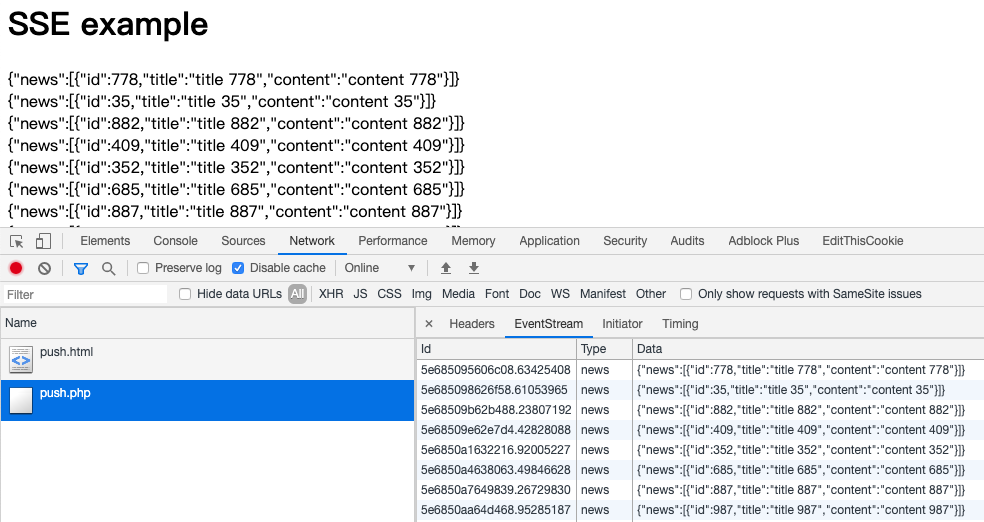
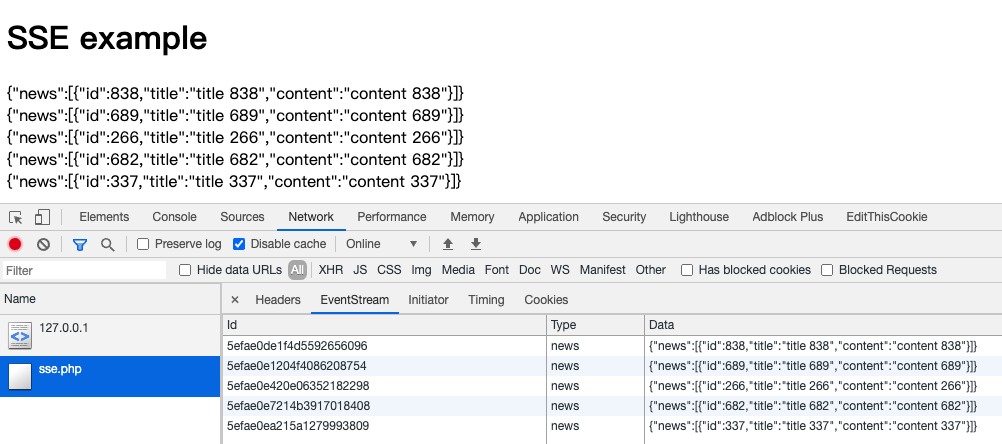
refactor sse

Changed region(s): [[0.0, 0.0, 1.0, 0.9955]]

diff --git a/examples/index.html b/examples/index.html
@@ -9,7 +9,7 @@
 <script type="application/javascript">
     const newsList = document.getElementById('news-list');
     if (typeof (EventSource) !== 'undefined') {
-        const source = new EventSource('/push.php');
+        const source = new EventSource('/sse.php');
         // const source = new EventSource('http://127.0.0.1:5200/');
         source.onopen = function (event) {
             console.log('onopen', event);

diff --git a/src/Event.php b/src/Event.php
@@ -4,33 +4,83 @@ namespace Hhxsv5\SSE;
 
 class Event
 {
+    /**
+     * @var string The event ID to set the EventSource object's last event ID value.
+     */
     protected $id;
-    protected $type;
+
+    /**
+     * @var string A string identifying the type of event described. If this is specified, an event will be dispatched on the browser to the listener for the specified event name; the website source code should use addEventListener() to listen for named events. The onmessage handler is called if no event name is specified for a message.
+     */
+    protected $event;
+
+    /**
+     * @var string The data field for the message. When the EventSource receives multiple consecutive lines that begin with data:, it will concatenate them, inserting a newline character between each one. Trailing newlines are removed.
+     */
     protected $data;
+
+    /**
+     * @var int The reconnection time to use when attempting to send the event. This must be an integer, specifying the reconnection time in milliseconds. If a non-integer value is specified, the field is ignored.
+     */
     protected $retry;
+
+    /**
+     * @var string This is just a comment, since it starts with a colon character. As mentioned previously, this can be useful as a keep-alive if messages may not be sent regularly.
+     */
     protected $comment;
 
     /**
-     * Event constructor.
-     * @param array $event [id=>id,type=>type,data=>data,retry=>retry,comment=>comment]
+     * @var callable The callback to get event data
      */
-    public function __construct(array $event)
+    protected $callback;
+
+    public function __construct(callable $callback, $event = '', $retry = 5000)
     {
-        $this->id = isset($event['id']) ? $event['id'] : null;
-        $this->type = isset($event['type']) ? $event['type'] : null;
-        $this->data = isset($event['data']) ? $event['data'] : null;
-        $this->retry = isset($event['retry']) ? $event['retry'] : null;
-        $this->comment = isset($event['comment']) ? $event['comment'] : null;
+        $this->callback = $callback;
+        $this->id = '';
+        $this->data = '';
+        $this->event = $event;
+        $this->retry = $retry;
+        $this->comment = '';
+    }
+
+    /**
+     * Fill the event data & id
+     * @return $this
+     */
+    public function fill()
+    {
+        $result = call_user_func($this->callback);
+        if ($result === false) {
+            $this->id = '';
+            $this->data = '';
+            $this->comment = 'no data';
+        } else {
+            $this->id = isset($result['id']) ? $result['id'] : str_replace('.', '', uniqid('', true));
+            $this->data = isset($result['data']) ? $result['data'] : $result;
+            $this->comment = '';
+        }
+        return $this;
     }
 
     public function __toString()
     {
         $event = [];
-        strlen($this->comment) > 0 AND $event[] = sprintf(': %s', $this->comment);//:comments
-        strlen($this->id) > 0 AND $event[] = sprintf('id: %s', $this->id);
-        strlen($this->retry) > 0 AND $event[] = sprintf('retry: %s', $this->retry);//millisecond
-        strlen($this->type) > 0 AND $event[] = sprintf('event: %s', $this->type);
-        strlen($this->data) > 0 AND $event[] = sprintf('data: %s', $this->data);
+        if ($this->comment !== '') {
+            $event[] = sprintf(': %s', $this->comment);
+        }
+        if ($this->id !== '') {
+            $event[] = sprintf('id: %s', $this->id);
+        }
+        if ($this->retry > 0) {
+            $event[] = sprintf('retry: %s', $this->retry);
+        }
+        if ($this->event !== '') {
+            $event[] = sprintf('event: %s', $this->event);
+        }
+        if ($this->data !== '') {
+            $event[] = sprintf('data: %s', $this->data);
+        }
         return implode("\n", $event) . "\n\n";
     }
 }

diff --git a/src/SSESwoole.php b/src/SSESwoole.php
@@ -6,39 +6,31 @@ use Swoole\Coroutine;
 use Swoole\Http\Request;
 use Swoole\Http\Response;
 
-class SSESwoole
+class SSESwoole extends SSE
 {
     protected $request;
     protected $response;
 
-    public function __construct(Request $request, Response $response)
+    public function __construct(Event $event, Request $request, Response $response)
     {
         $this->request = $request;
         $this->response = $response;
+        parent::__construct($event);
     }
 
-    public function start(Update $update, $eventType = null, $milliRetry = 2000)
+    /**
+     * Start SSE Server
+     * @param int $interval
+     */
+    public function start($interval = 3)
     {
         while (true) {
-            $changedData = $update->getUpdatedData();
-            if ($changedData !== false) {
-                $event = [
-                    'id'    => uniqid('', true),
-                    'type'  => $eventType,
-                    'data'  => (string)$changedData,
-                    'retry' => $milliRetry,
-                ];
-            } else {
-                $event = [
-                    'comment' => 'no update',
-                ];
-            }
-            $success = $this->response->write(new Event($event));
+            $success = $this->response->write($this->event->fill());
             if (!$success) {
                 $this->response->end();
                 return;
             }
-            Coroutine::sleep($update->getCheckInterval());
+            Coroutine::sleep($interval);
         }
     }
 }

diff --git a/examples/sse-swoole.php b/examples/sse-swoole.php
@@ -1,8 +1,8 @@
 <?php
 include '../vendor/autoload.php';
 
+use Hhxsv5\SSE\Event;
 use Hhxsv5\SSE\SSESwoole;
-use Hhxsv5\SSE\Update;
 use Swoole\Http\Request;
 use Swoole\Http\Response;
 use Swoole\Http\Server;
@@ -20,20 +20,23 @@ $server->set([
     'log_level'          => SWOOLE_LOG_WARNING,
     'log_file'           => __DIR__ . '/swoole.log',
 ]);
+
 $server->on('Request', function (Request $request, Response $response) use ($server) {
-    // $response->header('Access-Control-Allow-Origin', '*');
+    $response->header('Access-Control-Allow-Origin', '*');
     $response->header('Content-Type', 'text/event-stream');
     $response->header('Cache-Control', 'no-cache');
     $response->header('Connection', 'keep-alive');
     $response->header('X-Accel-Buffering', 'no');
 
-    (new SSESwoole($request, $response))->start(new Update(function () {
+    $event = new Event(function () {
         $id = mt_rand(1, 1000);
         $news = [['id' => $id, 'title' => 'title ' . $id, 'content' => 'content ' . $id]]; // Get news from database or service.
         if (empty($news)) {
             return false; // Return false if no new messages
         }
         return json_encode(compact('news'));
-    }), 'news');
+        // return ['id' => uniqid(), 'data' => json_encode(compact('news'))]; // Custom event Id
+    }, 'news');
+    (new SSESwoole($event, $request, $response))->start(3);
 });
 $server->start();

diff --git a/src/SSE.php b/src/SSE.php
@@ -4,30 +4,28 @@ namespace Hhxsv5\SSE;
 
 class SSE
 {
-    public function start(Update $update, $eventType = null, $milliRetry = 2000)
+    protected $event;
+
+    public function __construct(Event $event)
+    {
+        $this->event = $event;
+    }
+
+    /**
+     * Start SSE Server
+     * @param int $interval
+     */
+    public function start($interval = 3)
     {
         while (true) {
-            $changedData = $update->getUpdatedData();
-            if ($changedData !== false) {
-                $event = [
-                    'id'    => uniqid('', true),
-                    'type'  => $eventType,
-                    'data'  => (string)$changedData,
-                    'retry' => $milliRetry,
-                ];
-            } else {
-                $event = [
-                    'comment' => 'no update',
-                ];
-            }
-            echo new Event($event);
+            echo $this->event->fill();
             ob_flush();
             flush();
             // if the connection has been closed by the client we better exit the loop
             if (connection_aborted()) {
                 return;
             }
-            sleep($update->getCheckInterval());
+            sleep($interval);
         }
     }
 

diff --git a/examples/sse.php b/examples/sse.php
@@ -1,8 +1,8 @@
 <?php
 include '../vendor/autoload.php';
 
+use Hhxsv5\SSE\Event;
 use Hhxsv5\SSE\SSE;
-use Hhxsv5\SSE\Update;
 
 // PHP-FPM SSE Example: push messages to client
 
@@ -11,11 +11,13 @@ header('Cache-Control: no-cache');
 header('Connection: keep-alive');
 header('X-Accel-Buffering: no'); // Nginx: unbuffered responses suitable for Comet and HTTP streaming applications
 
-(new SSE())->start(new Update(function () {
+$callback = function () {
     $id = mt_rand(1, 1000);
     $news = [['id' => $id, 'title' => 'title ' . $id, 'content' => 'content ' . $id]]; // Get news from database or service.
     if (empty($news)) {
         return false; // Return false if no new messages
     }
     return json_encode(compact('news'));
-}), 'news');
+    // return ['id' => uniqid(), 'data' => json_encode(compact('news'))]; // Custom event Id
+};
+(new SSE(new Event($callback, 'news')))->start(3);

diff --git a/README.md b/README.md
@@ -31,7 +31,7 @@ php -S 127.0.0.1:9001 -t .
 
 ```Javascript
 // withCredentials=true: pass the cross-domain cookies to server-side
-const source = new EventSource('http://127.0.0.1:9001/push.php', {withCredentials:true});
+const source = new EventSource('http://127.0.0.1:9001/sse.php', {withCredentials:true});
 source.addEventListener('news', function(event) {
     console.log(event.data);
     // source.close(); // disconnect stream
@@ -42,24 +42,26 @@ source.addEventListener('news', function(event) {
 > Server: Sending events by pure php.
 
 ```PHP
+use Hhxsv5\SSE\Event;
 use Hhxsv5\SSE\SSE;
-use Hhxsv5\SSE\Update;
 
-// Example: push messages to client
+// PHP-FPM SSE Example: push messages to client
 
 header('Content-Type: text/event-stream');
 header('Cache-Control: no-cache');
 header('Connection: keep-alive');
 header('X-Accel-Buffering: no'); // Nginx: unbuffered responses suitable for Comet and HTTP streaming applications
 
-(new SSE())->start(new Update(function () {
+$callback = function () {
     $id = mt_rand(1, 1000);
     $news = [['id' => $id, 'title' => 'title ' . $id, 'content' => 'content ' . $id]]; // Get news from database or service.
     if (empty($news)) {
         return false; // Return false if no new messages
     }
     return json_encode(compact('news'));
-}), 'news');
+    // return ['id' => uniqid(), 'data' => json_encode(compact('news'))]; // Custom event Id
+};
+(new SSE(new Event($callback, 'news')))->start(3);
 ```
 
 ### Symfony and Laravel demo
@@ -67,7 +69,7 @@ header('X-Accel-Buffering: no'); // Nginx: unbuffered responses suitable for Com
 
 ```PHP
 use Hhxsv5\SSE\SSE;
-use Hhxsv5\SSE\Update;
+use Hhxsv5\SSE\Event;
 
 // Action method in controller
 public function getNewsStream()
@@ -78,14 +80,16 @@ public function getNewsStream()
     $response->headers->set('Connection', 'keep-alive');
     $response->headers->set('X-Accel-Buffering', 'no'); // Nginx: unbuffered responses suitable for Comet and HTTP streaming applications
     $response->setCallback(function () {
-        (new SSE())->start(new Update(function () {
+        $callback = function () {
             $id = mt_rand(1, 1000);
             $news = [['id' => $id, 'title' => 'title ' . $id, 'content' => 'content ' . $id]]; // Get news from database or service.
             if (empty($news)) {
                 return false; // Return false if no new messages
             }
             return json_encode(compact('news'));
-        }), 'news');
+            // return ['id' => uniqid(), 'data' => json_encode(compact('news'))]; // Custom event Id
+        };
+        (new SSE(new Event($callback, 'news')))->start(3);
     });
     return $response;
 }
@@ -96,8 +100,8 @@ public function getNewsStream()
 > Install [Swoole](https://github.com/swoole/swoole-src) 4.5.x: `pecl install swoole`.
 
 ```php
+use Hhxsv5\SSE\Event;
 use Hhxsv5\SSE\SSESwoole;
-use Hhxsv5\SSE\Update;
 use Swoole\Http\Request;
 use Swoole\Http\Response;
 use Swoole\Http\Server;
@@ -115,21 +119,24 @@ $server->set([
     'log_level'          => SWOOLE_LOG_WARNING,
     'log_file'           => __DIR__ . '/swoole.log',
 ]);
+
 $server->on('Request', function (Request $request, Response $response) use ($server) {
-    // $response->header('Access-Control-Allow-Origin', '*');
+    $response->header('Access-Control-Allow-Origin', '*');
     $response->header('Content-Type', 'text/event-stream');
     $response->header('Cache-Control', 'no-cache');
     $response->header('Connection', 'keep-alive');
     $response->header('X-Accel-Buffering', 'no');
 
-    (new SSESwoole($request, $response))->start(new Update(function () {
+    $event = new Event(function () {
         $id = mt_rand(1, 1000);
         $news = [['id' => $id, 'title' => 'title ' . $id, 'content' => 'content ' . $id]]; // Get news from database or service.
         if (empty($news)) {
             return false; // Return false if no new messages
         }
         return json_encode(compact('news'));
-    }), 'news');
+        // return ['id' => uniqid(), 'data' => json_encode(compact('news'))]; // Custom event Id
+    }, 'news');
+    (new SSESwoole($event, $request, $response))->start(3);
 });
 $server->start();
 ```
